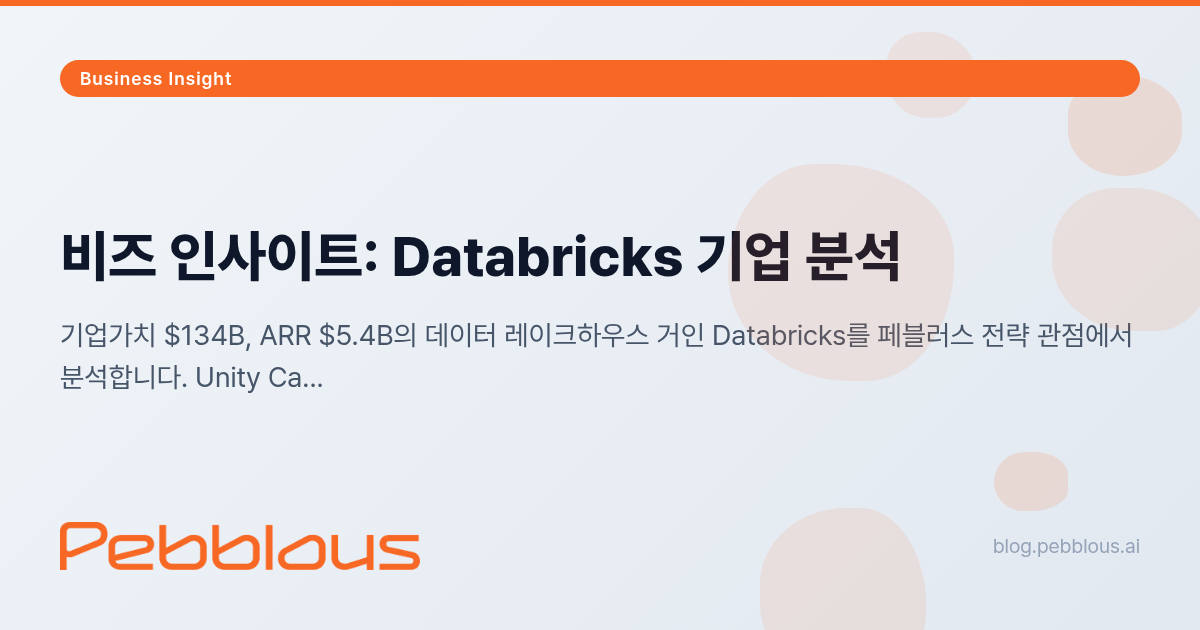
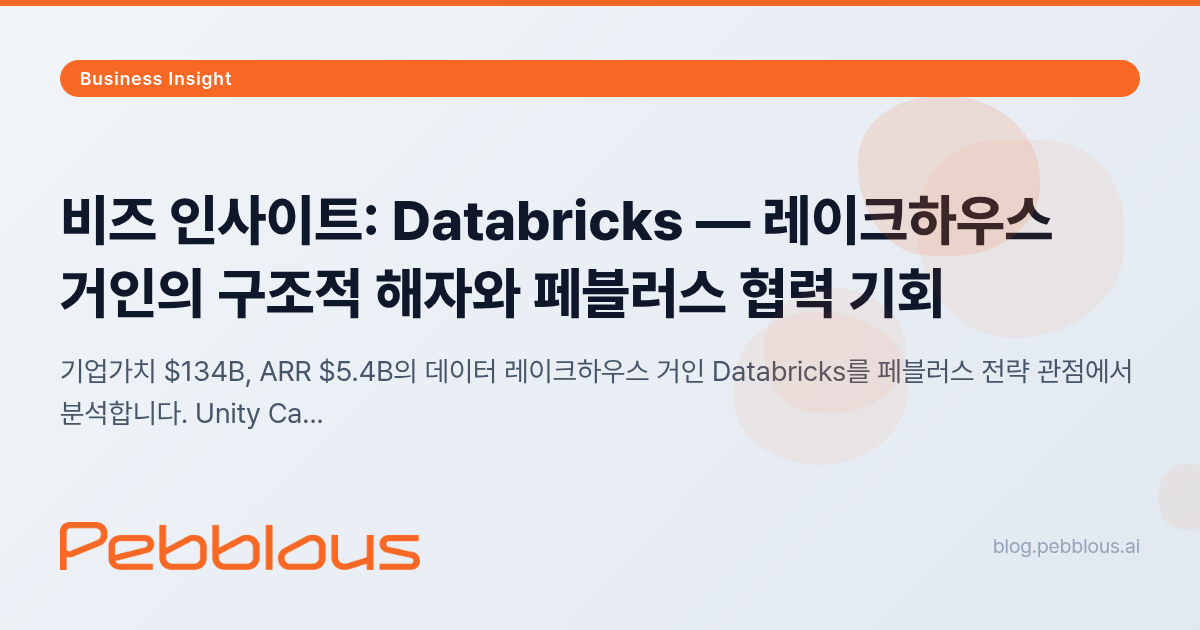
fix: Databricks 비즈 인사이트 EN HTML 제목 통일 + OG 이미지 재생성
- ko/en HTML title, og:title, twitter:title 시리즈 포맷 통일
- OG 이미지 새 제목으로 재생성 (KO 255KB, EN 262KB)

Changed region(s): [[0.0308, 0.1206, 0.9867, 0.6937], [0.8017, 0.6937, 0.8942, 0.8143]]

diff --git a/project/BizReport/databricks-analysis-01/ko/index.html b/project/BizReport/databricks-analysis-01/ko/index.html
@@ -21,7 +21,7 @@
     <!-- Open Graph / Facebook -->
     <meta property="og:type" content="article">
     <meta property="og:url" content="https://blog.pebblous.ai/project/BizReport/databricks-analysis-01/ko/">
-    <meta property="og:title" content="비즈 인사이트: Databricks 기업 분석 — 페블러스 전략 관점 | Pebblous">
+    <meta property="og:title" content="비즈 인사이트: Databricks — 레이크하우스 거인의 구조적 해자와 페블러스 협력 기회 | Pebblous">
     <meta property="og:description" content="기업가치 $134B, ARR $5.4B의 데이터 레이크하우스 거인 Databricks를 페블러스 전략 관점에서 분석합니다. Unity Catalog 데이터 거버넌스 공백과 DataClinic 협력 가능성을 도출합니다.">
     <meta property="og:image" content="https://blog.pebblous.ai/project/BizReport/databricks-analysis-01/ko/image/og.png">
     <meta property="og:image:width" content="1200">
@@ -35,7 +35,7 @@
     <meta name="twitter:site" content="@pebblous">
     <meta name="twitter:creator" content="@pebblous">
     <meta name="twitter:url" content="https://blog.pebblous.ai/project/BizReport/databricks-analysis-01/ko/">
-    <meta name="twitter:title" content="비즈 인사이트: Databricks 기업 분석 — 페블러스 전략 관점 | Pebblous">
+    <meta name="twitter:title" content="비즈 인사이트: Databricks — 레이크하우스 거인의 구조적 해자와 페블러스 협력 기회 | Pebblous">
     <meta name="twitter:description" content="$134B 데이터 레이크하우스 거인 Databricks의 제품·전략·재무를 분석하고, 페블러스 DataClinic과의 협력 접점을 검증합니다.">
     <meta name="twitter:image" content="https://blog.pebblous.ai/project/BizReport/databricks-analysis-01/ko/image/og.png">
     <meta name="twitter:image:alt" content="비즈 인사이트: Databricks 기업 분석 - 페블러스">
@@ -61,7 +61,7 @@
     <link rel="alternate" hreflang="en" href="https://blog.pebblous.ai/project/BizReport/databricks-analysis-01/en/" />
     <link rel="alternate" hreflang="x-default" href="https://blog.pebblous.ai/project/BizReport/databricks-analysis-01/en/" />
 
-    <title id="page-title">비즈 인사이트: Databricks 기업 분석 — 페블러스 전략 관점 | Pebblous</title>
+    <title id="page-title">비즈 인사이트: Databricks — 레이크하우스 거인의 구조적 해자와 페블러스 협력 기회 | Pebblous</title>
 
     <!-- Favicon -->
     <link rel="icon" href="/image/favicon.ico" sizes="any">
@@ -671,7 +671,7 @@
                 subtitle: "데이터 레이크하우스·AI/ML 플랫폼 관점의 페블러스 전략 분석",
                 publishDate: "2026년 4월 6일",
                 publisher: "(주)페블러스 데이터 커뮤니케이션팀",
-                pageTitle: "비즈 인사이트: Databricks 기업 분석 — 페블러스 전략 관점 | Pebblous",
+                pageTitle: "비즈 인사이트: Databricks — 레이크하우스 거인의 구조적 해자와 페블러스 협력 기회 | Pebblous",
                 defaultTheme: "light",
                 commentsMessage: "Databricks 기업 분석에 대한 질문이나 의견이 있으신가요?",
                 category: "business",

diff --git a/project/BizReport/databricks-analysis-01/en/index.html b/project/BizReport/databricks-analysis-01/en/index.html
@@ -21,7 +21,7 @@
     <!-- Open Graph / Facebook -->
     <meta property="og:type" content="article">
     <meta property="og:url" content="https://blog.pebblous.ai/project/BizReport/databricks-analysis-01/en/">
-    <meta property="og:title" content="Biz Insight: Databricks Analysis — Pebblous Strategic Perspective | Pebblous">
+    <meta property="og:title" content="Biz Insight: Databricks — The Lakehouse Leader's Structural Moat and Pebblous Partnership | Pebblous">
     <meta property="og:description" content="An in-depth analysis of Databricks ($134B valuation, $5.4B ARR) from the Pebblous strategic perspective. Examining Unity Catalog governance gaps and DataClinic collaboration opportunities.">
     <meta property="og:image" content="https://blog.pebblous.ai/project/BizReport/databricks-analysis-01/en/image/og.png">
     <meta property="og:image:width" content="1200">
@@ -35,7 +35,7 @@
     <meta name="twitter:site" content="@pebblous">
     <meta name="twitter:creator" content="@pebblous">
     <meta name="twitter:url" content="https://blog.pebblous.ai/project/BizReport/databricks-analysis-01/en/">
-    <meta name="twitter:title" content="Biz Insight: Databricks Analysis — Pebblous Strategic Perspective | Pebblous">
+    <meta name="twitter:title" content="Biz Insight: Databricks — The Lakehouse Leader's Structural Moat and Pebblous Partnership | Pebblous">
     <meta name="twitter:description" content="A comprehensive analysis of the $134B data lakehouse giant Databricks, examining product stack, strategy, financials, and Pebblous DataClinic collaboration opportunities.">
     <meta name="twitter:image" content="https://blog.pebblous.ai/project/BizReport/databricks-analysis-01/en/image/og.png">
     <meta name="twitter:image:alt" content="Biz Insight: Databricks Analysis - Pebblous">
@@ -61,7 +61,7 @@
     <link rel="alternate" hreflang="en" href="https://blog.pebblous.ai/project/BizReport/databricks-analysis-01/en/" />
     <link rel="alternate" hreflang="x-default" href="https://blog.pebblous.ai/project/BizReport/databricks-analysis-01/en/" />
 
-    <title id="page-title">Biz Insight: Databricks Analysis — Pebblous Strategic Perspective | Pebblous</title>
+    <title id="page-title">Biz Insight: Databricks — The Lakehouse Leader's Structural Moat and Pebblous Partnership | Pebblous</title>
 
     <!-- Favicon -->
     <link rel="icon" href="/image/favicon.ico" sizes="any">
@@ -469,7 +469,7 @@
                 subtitle: "Enterprise Analysis from a Pebblous Data Lakehouse & AI/ML Perspective",
                 publishDate: "April 6, 2026",
                 publisher: "Pebblous Data Communication Team",
-                pageTitle: "Biz Insight: Databricks Analysis — Pebblous Strategic Perspective | Pebblous",
+                pageTitle: "Biz Insight: Databricks — The Lakehouse Leader's Structural Moat and Pebblous Partnership | Pebblous",
                 defaultTheme: "light",
                 commentsMessage: "Have questions or thoughts about this Databricks analysis?",
                 category: "business",
